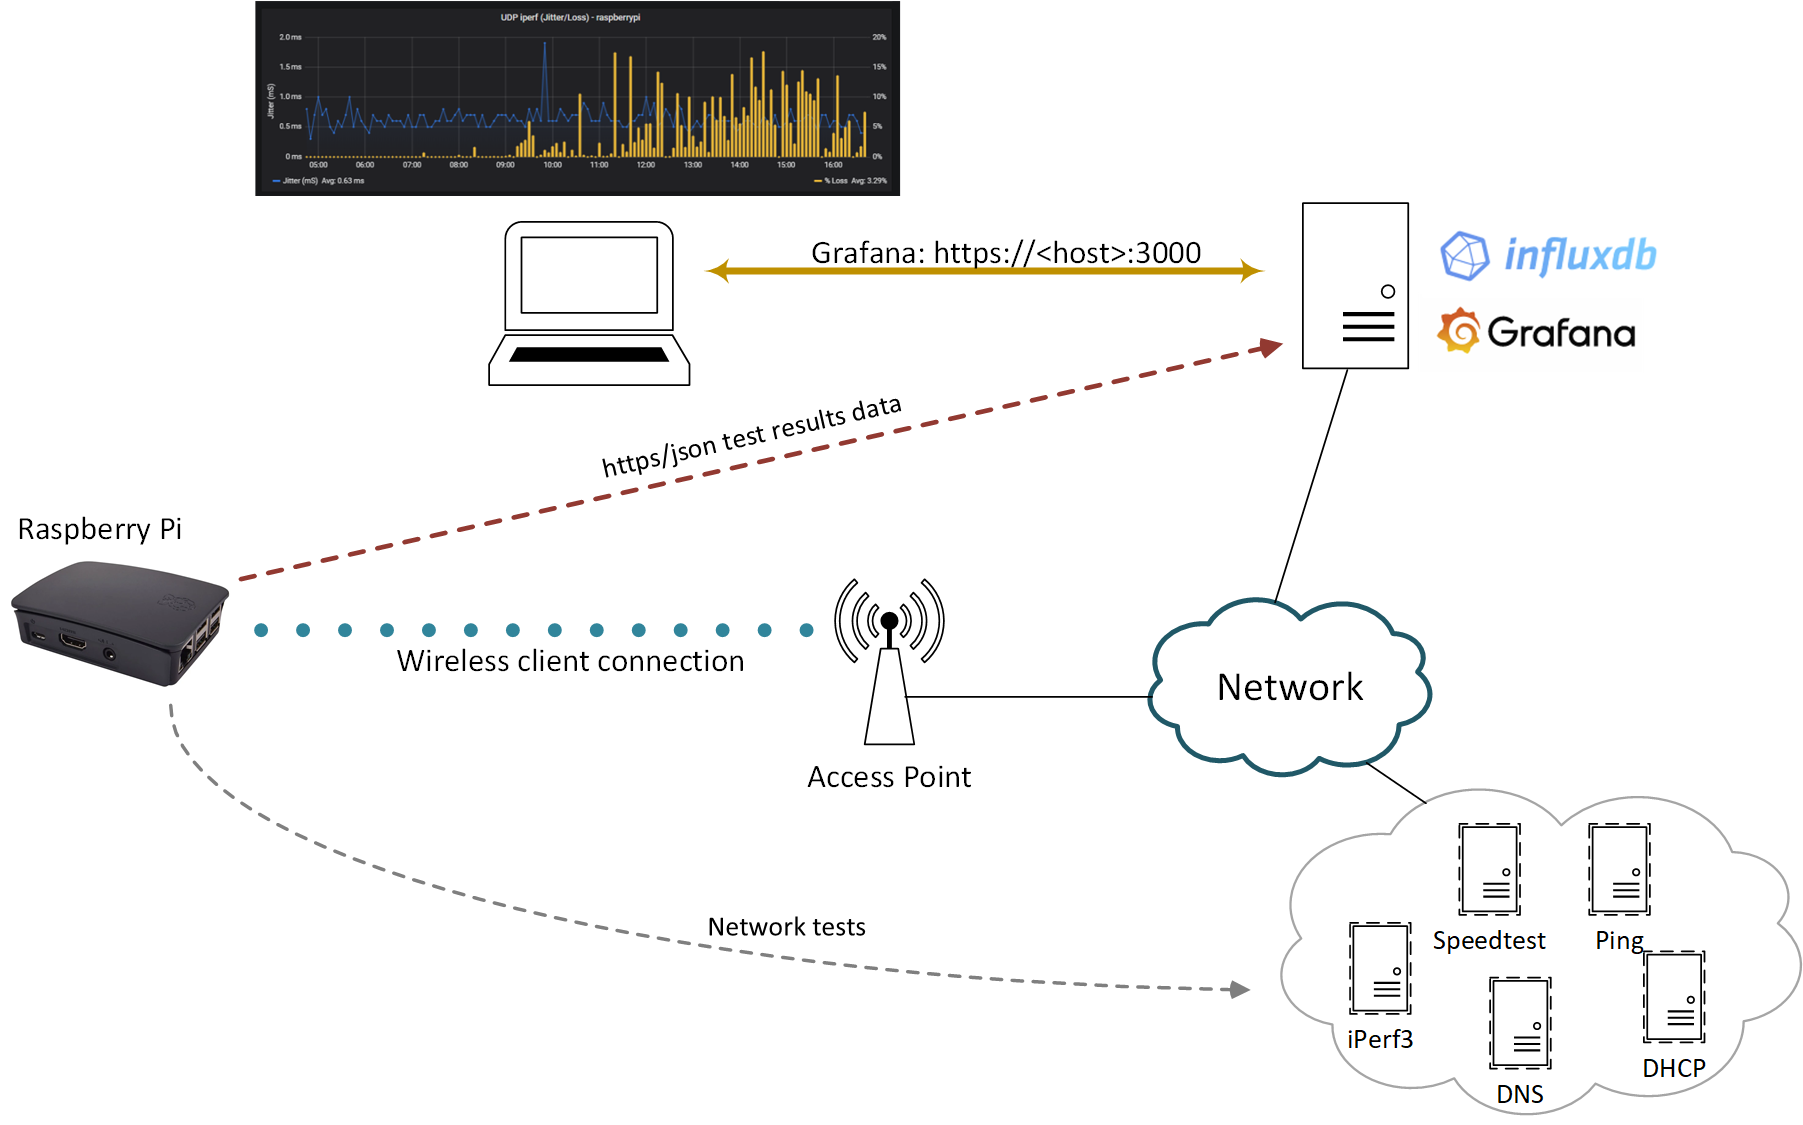
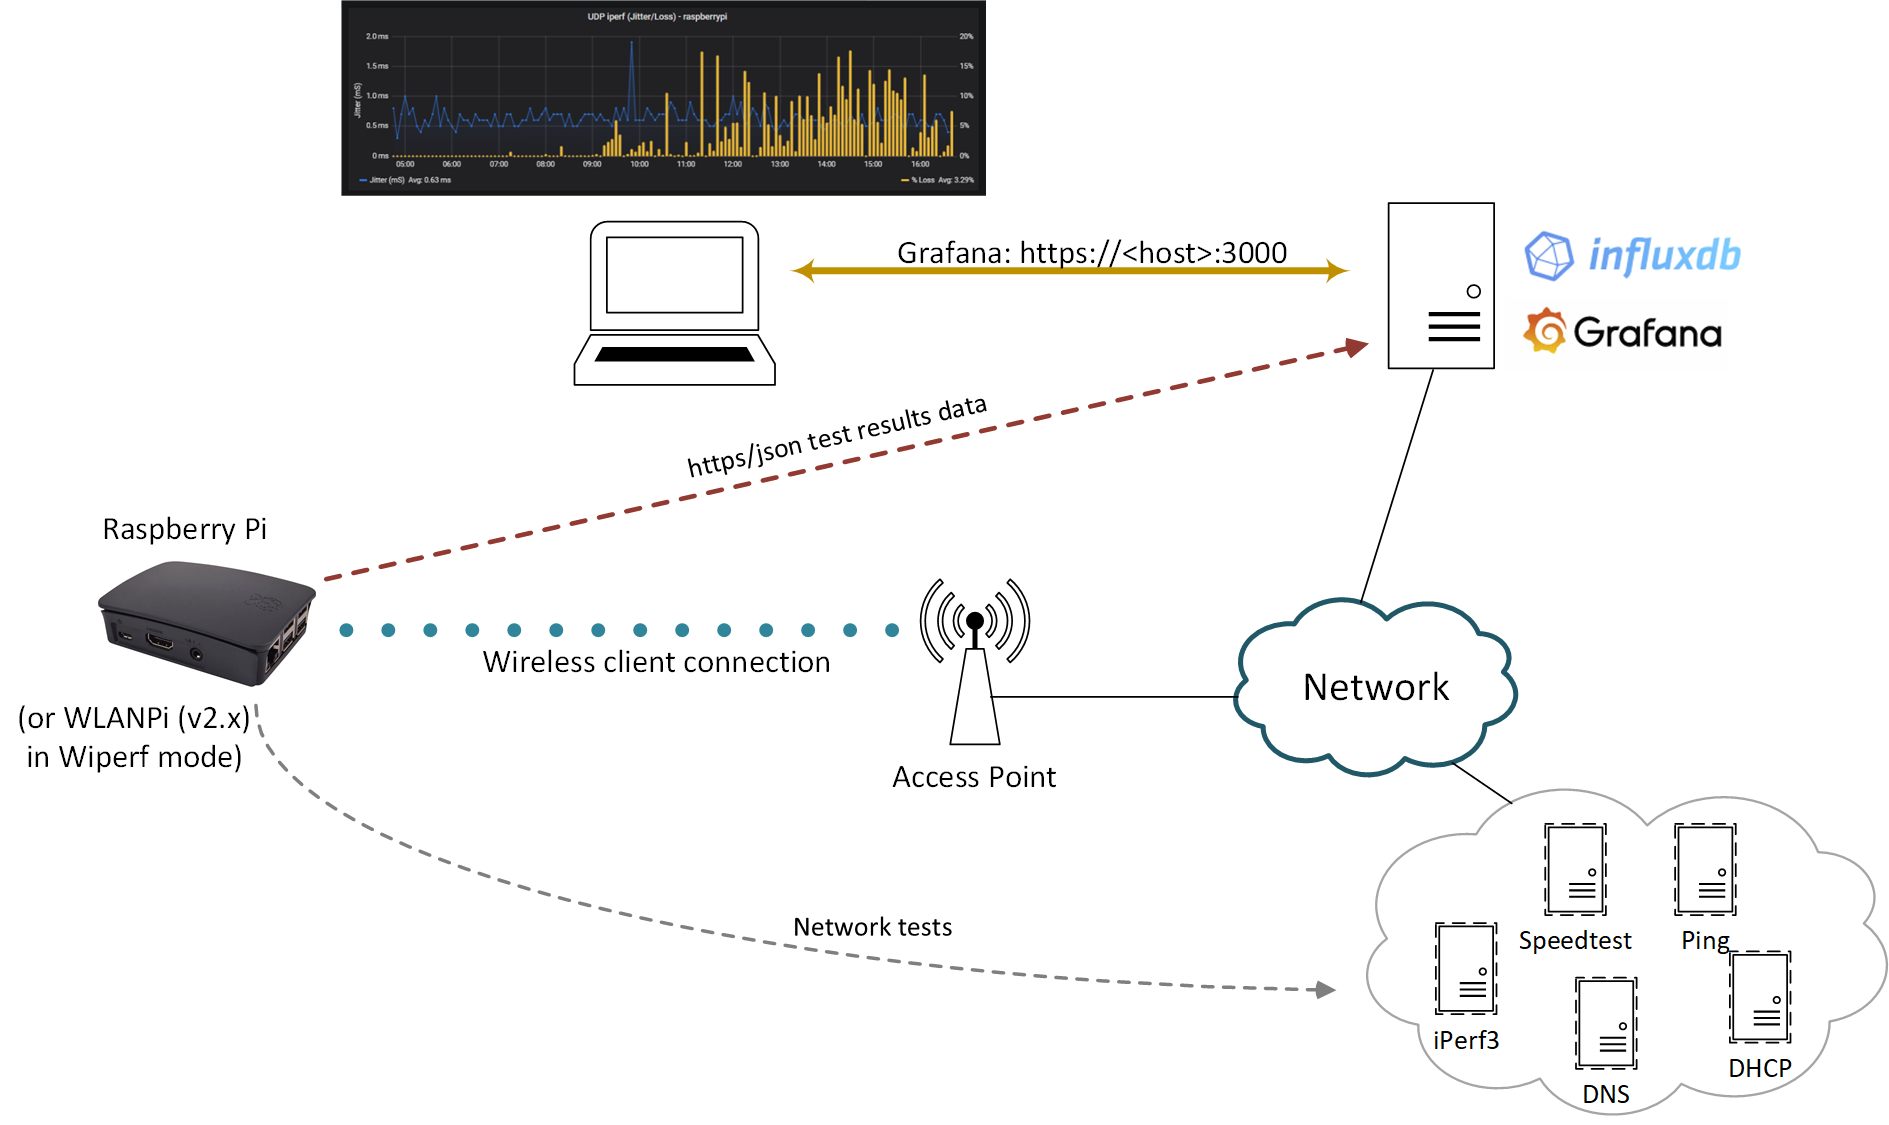
finalized

diff --git a/mkdocs/docs/operation.md b/mkdocs/docs/operation.md
@@ -20,7 +20,9 @@ Here is a suggested workflow to create a probe configuration file:
  sudo cp ./config.default.ini ./config.ini
  sudo nano ./config.ini
 ```
-### cron (RPI only....not required for WLAN Pi)
+### cron
+*(Note: This operation is required for the Raspberry Pi only. The WLAN Pi will automatically setup the required cron job during the mode switch)*
+
 In addition to the creating a customised configuration file for the probe, a mechanism is required to run the wiperf utility on a regular basis (e.g. every 5 minutes). Cron is a Linux utility that can be used to run wiperf periodically to gather data over time.
 
 The following CLI commands must be used to add a cron job to the probe to gather data on a regular basis:
@@ -36,7 +38,17 @@ Add the following line to run the configured tests every 5 minutes:
 ```
 
 ### wpa_supplicant
+If the wiperf probe is to be connected to a wireless network, then details of the wireless network and the credentials to access the network need to be configured on the probe. This is achieved by configuring the following file:
 
+```
+ # on the RPi, edit the following file:
+ sudo nano /etc/wpa_supplicant/wpa_supplicant.conf
+ ```
+
+ ```
+  # on the WLAN Pi edit the following file:
+ sudo nano /etc/wiperf/confi/etc/wpa_supplicant/wpa_supplicant.conf
+ ```
 
 ## Logging
 Following the completion of the configuration described above, if all is configured correctly, then wiperf will run every 5 minutes, perform the configured tests, and then send the data back to the data server.
@@ -67,10 +79,43 @@ A number of logs are generated to provide support information around the install
 ``` 
 
 ## Reporting
+Gathering the data with a probe is only half of the story when using wiperf. The gathered data must be sent to a data collection server to allow it to be visualized to allow analysis of network performance. The data server must be an instance of either:
 
+- Splunk, or
+- InfluxDB with Grafana  
+
+### Splunk
 
 ![splunk_overview](images/splunk_overview.png)
 
+The graphic above outlines the collection of network performance data and how this is sent to Splunk by the wiperf probe. The Splunk instance may be provided anywhere that is convenient (e.g. on a server locally, via VPN, cloud etc.)
+
+In summary, the steps for data collection are as follows:
+
+1. A wiperf probe (i.e. a WLAN Pi or Raspberry Pi) is configured to perform tests and send results to a Splunk server
+2. The probe performs the configured tests (e.g. speedtest, iperf, http etc.)
+3. The results of each test are sent over https to the Splunk server for storage and later analysis
+4. The data is analyzed by accessing the dashboard (a web GUI) of the Splunk server
+
+(Note that the Splunk server acts as both the data repository and reporting platform for collected data)
+
+### Grafana/Influx 
 
 ![grafana_overview](images/grafana_overview.png)
+
+The graphic above outlines the collection of network performance data and how this is sent to Influx & Grafana by the wiperf probe. 
+
+Grafana is a popular open-source data visualization tool. It is used to graph the performance data collected by wiperf. However, Grafana needs a data source from which to pull its network performance data. To meet this requirement, the Influx database server is used. Like Grafana, InfluxDB is also an open-source package. Note this contrasts with using Splunk, which allows us to use the same package to provide both the data storage and analysis/visualization functions.
+
+For small-scale instances, Grafana & Influx may be installed on the same server platform and Grafana configured to use the local instance of Influx as its data source.
+
+Grafana & Influx may be provided anywhere that is convenient (e.g. on a server locally, via VPN, cloud etc.). Note that wiperf only needs to be able to send data to Influx - it requires no communication with the Grafana instance.
+
+In summary, the steps for data collection are as follows:
+
+1. A wiperf probe (i.e. a WLAN Pi or Raspberry Pi) is configured to perform tests and send results to a Splunk server
+2. The probe performs the configured tests (e.g. speedtest, iperf, http etc.)
+3. The results of each test are sent over https to the Influx server for storage
+4. Grafana is configured to use Influx as its data source to allow visualization of performance data
+5. Data is analysed by accessing the dashboard (a web GUI) of the Grafana server, which pull the required dashboard data from Influx.
 
